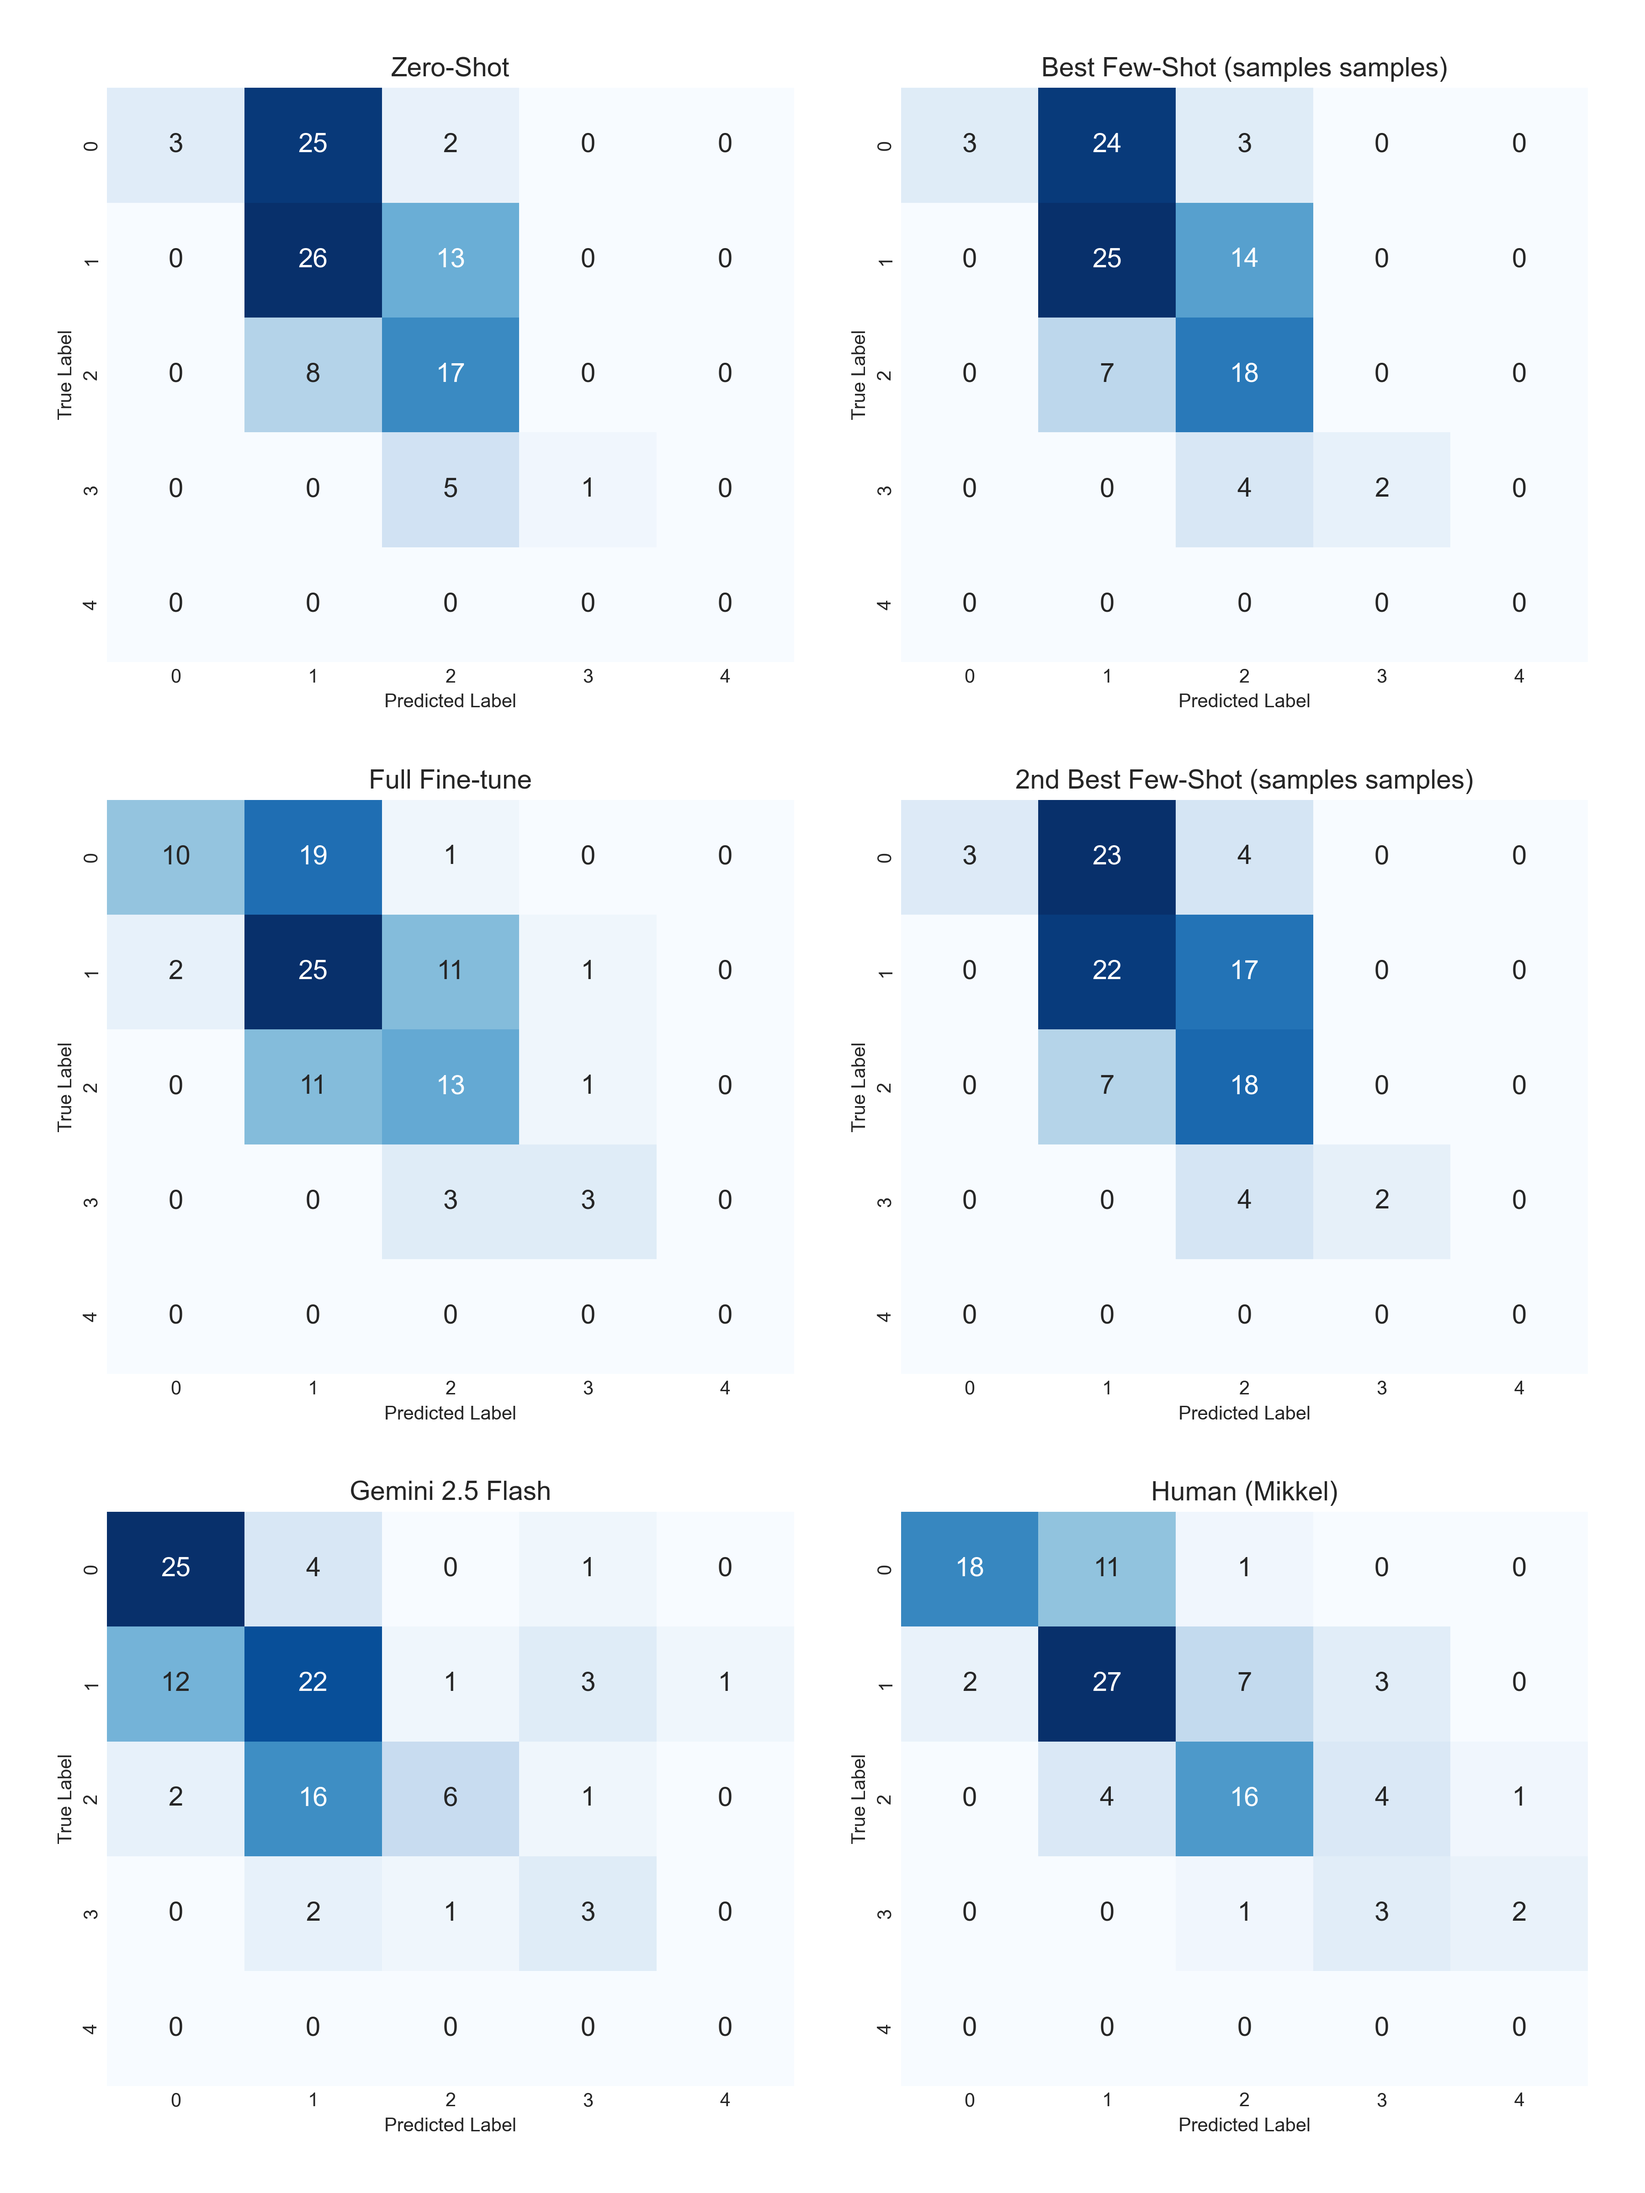
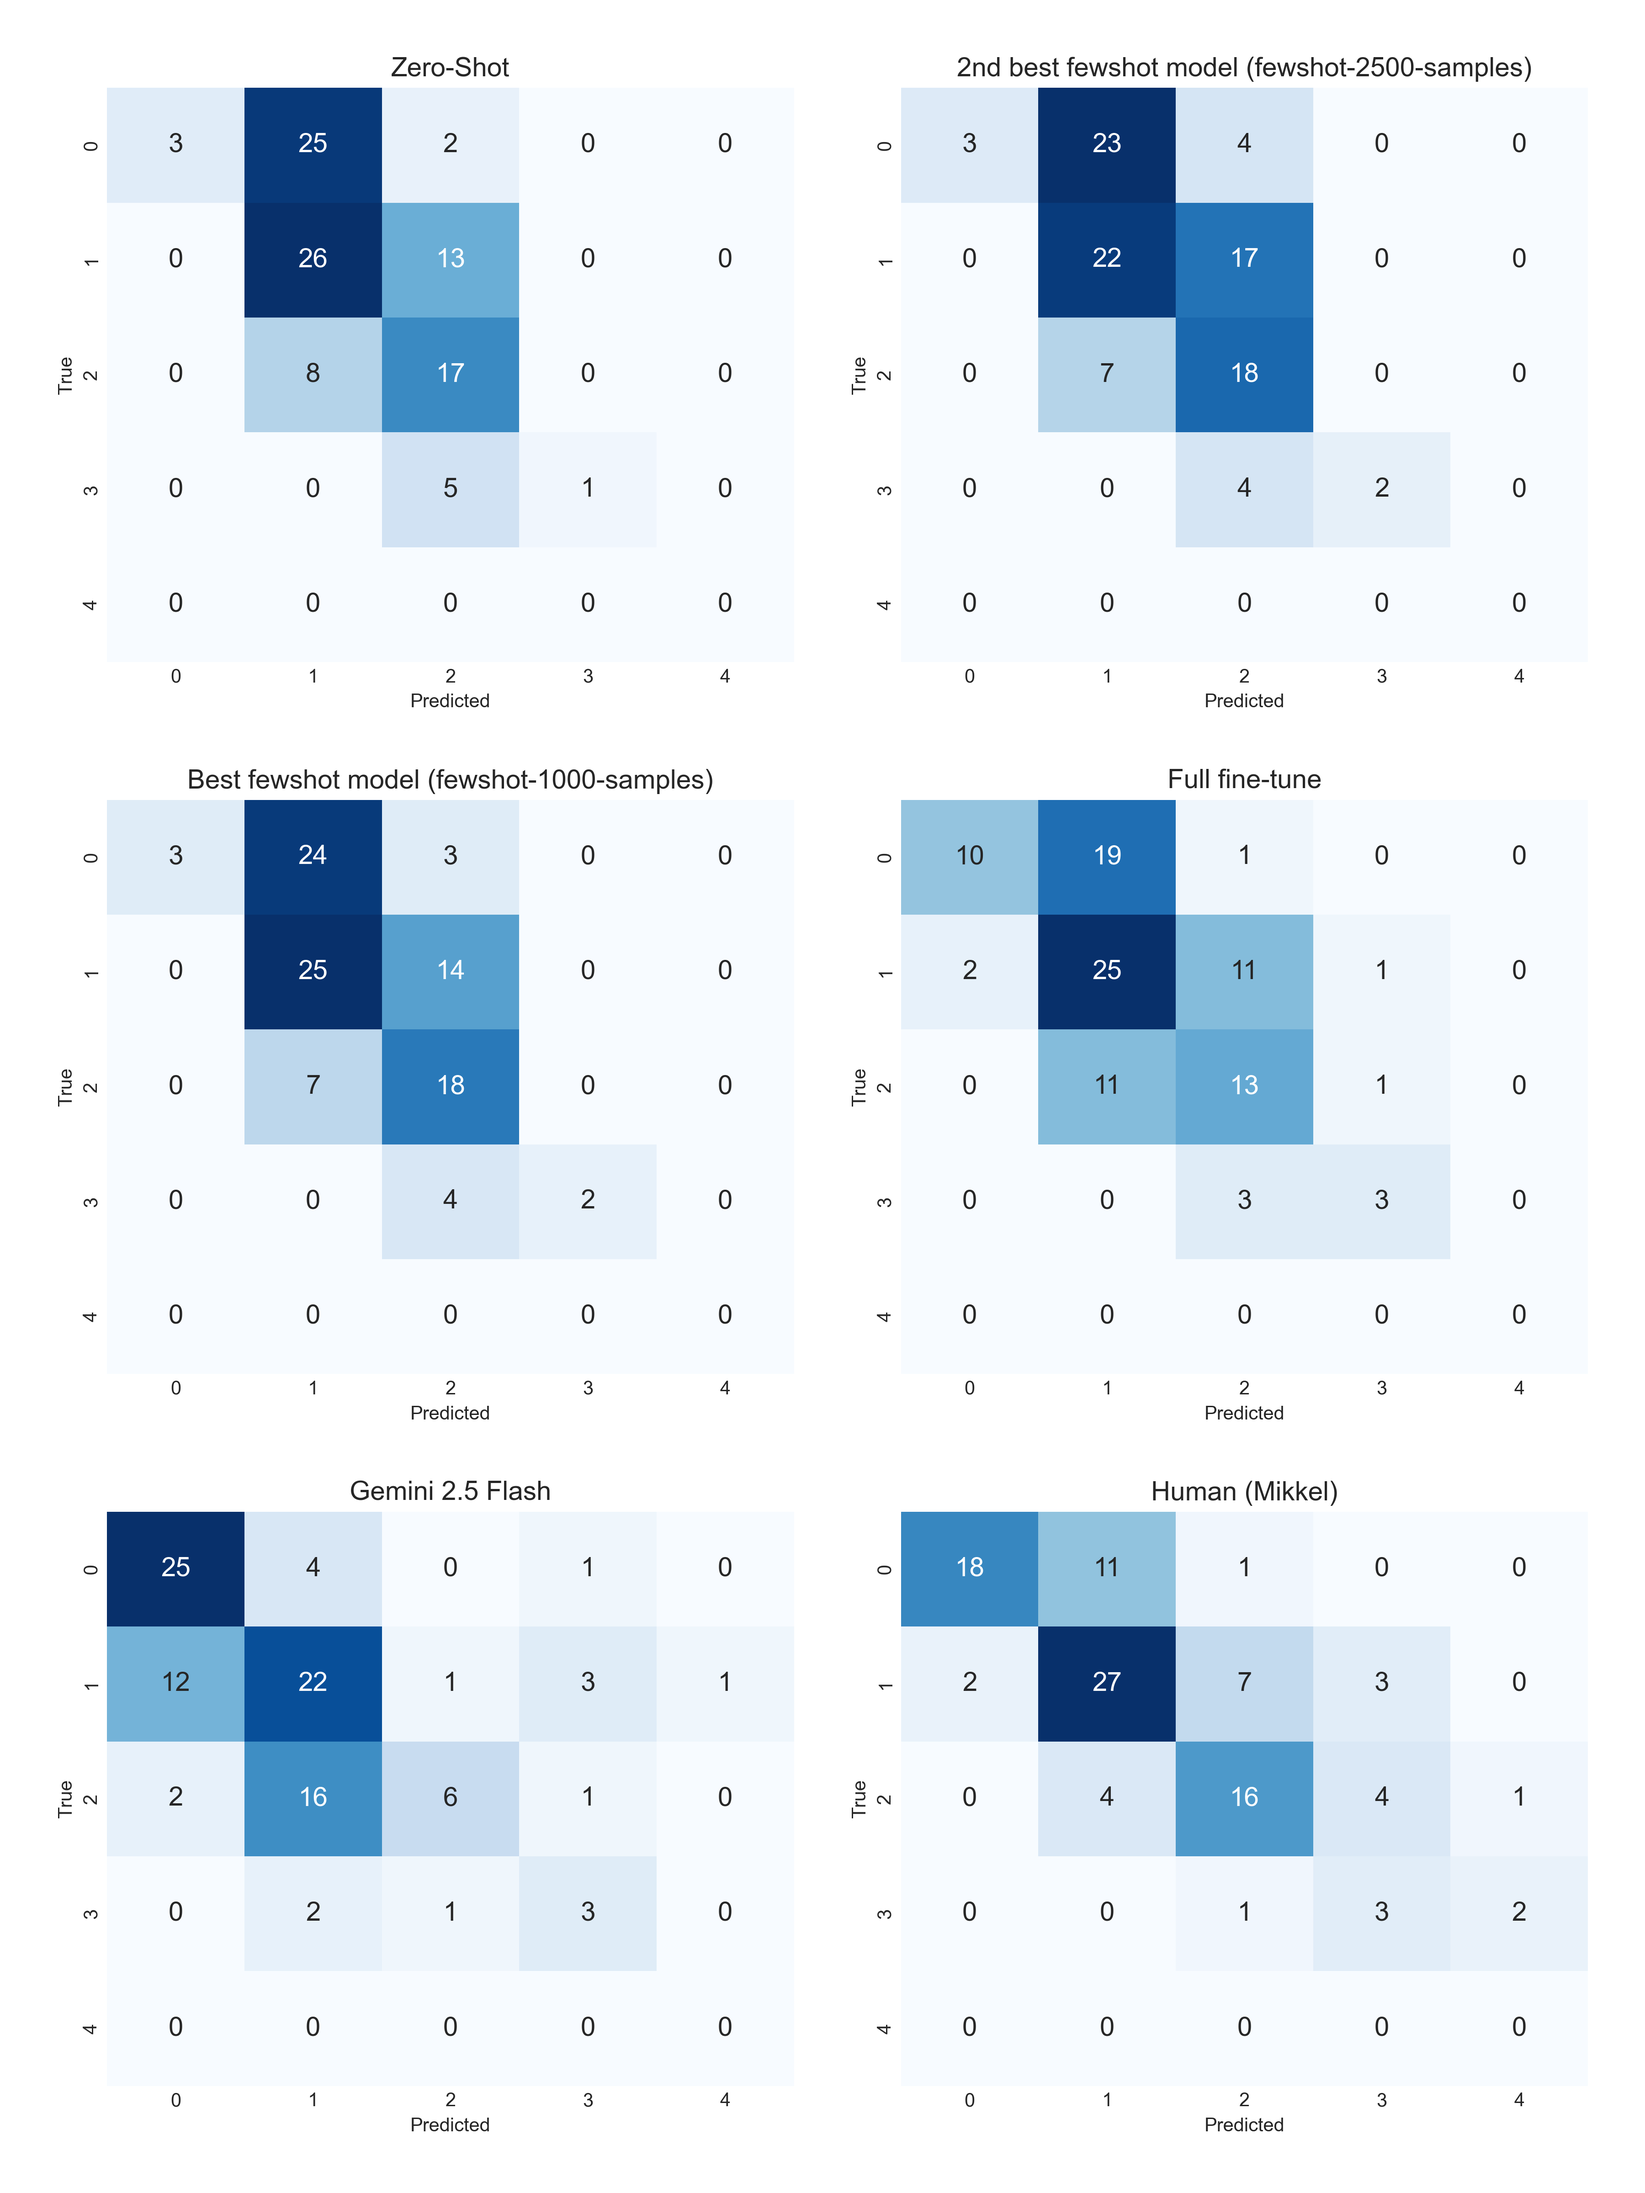
Again, updated the confusion matrice

diff --git a/eval/eval.py b/eval/eval.py
@@ -83,53 +83,74 @@ def plot_metrics_barchart(summary_df: pd.DataFrame):
 
 
 def plot_confusion_matrices(master_df, summary_df, human_model_name):
-    # Identify key models for plotting
-    fewshot_models_sorted = summary_df[
-        summary_df['model_name'].str.contains('fewshot') & 
-        ~summary_df['model_name'].str.contains('zeroshot')
+    """
+    Draws a 3 × 2 grid of confusion-matrix heatmaps in this order:
+      ┌───────────┬──────────────────────────────┐
+      │ Zero-Shot │ 2nd best fewshot model (…)   │
+      ├───────────┼──────────────────────────────┤
+      │ Best fewshot model (…) │ Full fine-tune  │
+      ├───────────┼──────────────────────────────┤
+      │ Gemini 2.5 Flash       │ Human (Mikkel)  │
+      └───────────┴──────────────────────────────┘
+    """
+    # --- identify model names ----------------------------------------------------------
+    zeroshot_name = next((n for n in master_df["model_name"].unique()
+                          if "zero" in n.lower()), "N/A")
+
+    fewshot_ranked = summary_df[
+        summary_df['model_name'].str.contains('fewshot', case=False, na=False) &
+        ~summary_df['model_name'].str.contains('zero', case=False, na=False)
     ].sort_values('f1_macro', ascending=False)
-    
-    best_fs_model_name = fewshot_models_sorted.iloc[0]['model_name'] if not fewshot_models_sorted.empty else "N/A"
-    second_best_fs_model_name = fewshot_models_sorted.iloc[1]['model_name'] if len(fewshot_models_sorted) > 1 else "N/A"
+
+    best_ft_name    = fewshot_ranked.iloc[0]['model_name'] if len(fewshot_ranked) > 0 else "N/A"
+    second_ft_name  = fewshot_ranked.iloc[1]['model_name'] if len(fewshot_ranked) > 1 else "N/A"
 
     try:
-        full_finetune_name = next(n for n in master_df["model_name"].unique() if "Full-finetune" in n)
+        full_ft_name = next(n for n in master_df["model_name"].unique()
+                            if "full" in n.lower() and "finetune" in n.lower())
     except StopIteration:
-        full_finetune_name = "N/A"
+        full_ft_name = "N/A"
 
-    models_to_plot = {
-        "Zero-Shot": next((n for n in master_df["model_name"].unique() if "zero" in n.lower()), "N/A"),
-        f"Best Few-Shot ({best_fs_model_name.split('-')[-1]} samples)": best_fs_model_name,
-        "Full Fine-tune": full_finetune_name,
-        f"2nd Best Few-Shot ({second_best_fs_model_name.split('-')[-1]} samples)": second_best_fs_model_name,
-        "Gemini 2.5 Flash": "Gemini 2.5 Flash",
-        human_model_name: human_model_name
-    }
-    
-    # --- THIS IS THE MAIN CHANGE: 3 rows, 2 columns ---
+    gemini_name = "Gemini 2.5 Flash"
+    human_name  = human_model_name
+
+    # --- fixed display order -----------------------------------------------------------
+    models_to_plot = [
+        ("Zero-Shot",                                    zeroshot_name),                 # top-left
+        (f"2nd best fewshot model ({second_ft_name})",   second_ft_name),                # top-right
+        (f"Best fewshot model ({best_ft_name})",         best_ft_name),                  # mid-left
+        ("Full fine-tune",                               full_ft_name),                  # mid-right
+        ("Gemini 2.5 Flash",                             gemini_name),                   # bottom-left
+        (human_name,                                     human_name)                     # bottom-right
+    ]
+
+    # --- plotting ----------------------------------------------------------------------
     fig, axes = plt.subplots(3, 2, figsize=(12, 16))
     axes = axes.flatten()
-    
-    for i, (title, model_name) in enumerate(models_to_plot.items()):
-        ax = axes[i]
+
+    for idx, (title, model_name) in enumerate(models_to_plot):
+        ax = axes[idx]
         subset = master_df[master_df['model_name'] == model_name]
-        
+
         if subset.empty or model_name == "N/A":
-            ax.text(0.5, 0.5, 'Data Not Found', ha='center', va='center', transform=ax.transAxes, fontsize=14)
+            ax.text(0.5, 0.5, 'Data Not Found', ha='center', va='center',
+                    transform=ax.transAxes, fontsize=14)
+            ax.set_xticks([]); ax.set_yticks([])
             ax.set_title(title, fontsize=14)
-            ax.set_xticks([])
-            ax.set_yticks([])
             continue
 
-        cm = confusion_matrix(subset['true_label'], subset['final_prediction'], labels=list(range(5)))
-        sns.heatmap(cm, annot=True, fmt='d', cmap='Blues', ax=ax, cbar=False, annot_kws={"size": 14})
+        cm = confusion_matrix(subset['true_label'],
+                              subset['final_prediction'],
+                              labels=list(range(5)))
+
+        sns.heatmap(cm, ax=ax, annot=True, fmt='d', cmap='Blues',
+                    cbar=False, annot_kws={"size": 14})
+        ax.set_xlabel('Predicted'); ax.set_ylabel('True')
         ax.set_title(title, fontsize=14)
-        ax.set_xlabel('Predicted Label')
-        ax.set_ylabel('True Label')
-        
+
     fig.tight_layout(pad=3.0)
     plt.savefig(CONFUSION_MATRICES_PATH, dpi=300)
-    print(f"Confusion matrix plot saved to {CONFUSION_MATRICES_PATH}")
+    print(f"Confusion matrix plot saved → {CONFUSION_MATRICES_PATH}")
     plt.show()
 
 
